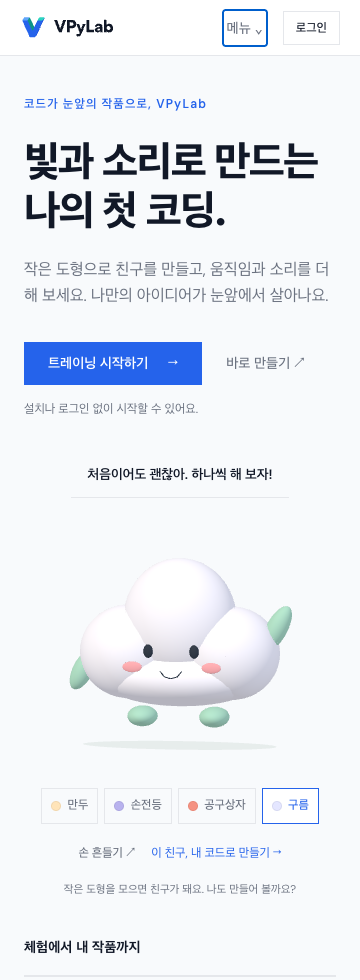
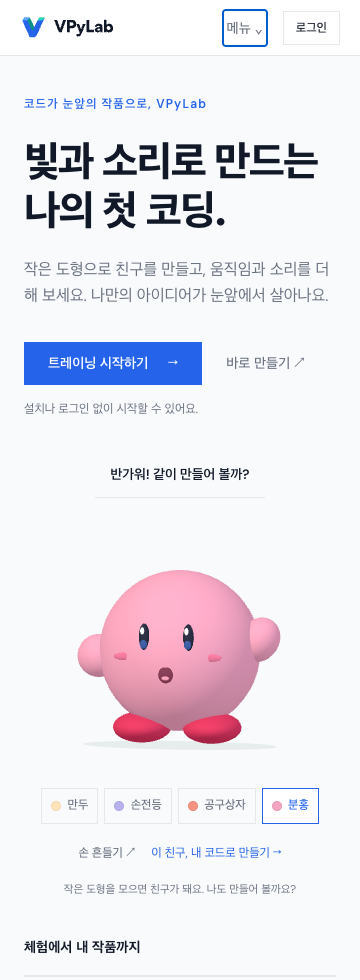
Replace cloud greeting with a Kirby-like pink coding friend

Changed region(s): [[0.1833, 0.5816, 0.825, 0.7653], [0.2444, 0.4592, 0.7639, 0.4898], [0.7639, 0.7959, 0.8556, 0.8265]]

diff --git a/client/src/data/welcome-friends.js b/client/src/data/welcome-friends.js
@@ -4,13 +4,28 @@ export const welcomeFriends=[
   {id:'dumpling',label:text('만두 친구','Dumpling'),color:'#ffe4b9',line:text('작은 코드부터, 같이 만들어 볼까?','Let’s make something with a little code!')},
   {id:'flashlight',label:text('손전등 친구','Flashlight'),color:'#b8b2ee',line:text('궁금한 곳을 코드로 비춰 보자!','Let’s shine a light on a new idea!')},
   {id:'toolbox',label:text('공구상자 친구','Toolbox'),color:'#f59282',line:text('만들고, 움직이고, 함께 고쳐 보자!','Let’s build, move, and improve it together!')},
-  {id:'cloud',label:text('구름 친구','Cloud'),color:'#e4e6ff',line:text('처음이어도 괜찮아. 하나씩 해 보자!','New to coding? Let’s try one thing at a time!')},
+  {id:'kirby',label:text('분홍 친구','Pink friend'),color:'#f5a4c2',line:text('반가워! 같이 만들어 볼까?','Hello! Let’s make something together!')},
 ];
 const ink='#293342',cheek='#f3a6ae',mint='#a7d7c4';
 export function welcomeParts(id='dumpling'){
   const parts=[];
   const egg=(name,pos,size,color,angle=0)=>parts.push({name,type:'ellipsoid',pos,size,color,angle});
   const solid=(name,type,props,color)=>parts.push({name,type,...props,color});
+  if(id==='kirby'){
+    const pink='#f5a4c2';
+    solid('body','sphere',{pos:[0,0,0],radius:.86},pink);
+    egg('left_foot',[-.38,-.81,.16],[.62,.33,.8],'#df3460');egg('right_foot',[.38,-.81,.16],[.62,.33,.8],'#df3460');
+    egg('left_hand',[-.88,-.07,0],[.46,.46,.46],pink);egg('right_hand',[.86,.13,0],[.43,.5,.5],pink,-.6);
+    for(const side of [-1,1]){
+      egg('eye_'+side,[side*.24,.22,.804],[.115,.29,.08],'#242840');
+      egg('eye_blue_'+side,[side*.24,.145,.851],[.078,.095,.02],'#365aa5');
+      egg('eye_shine_'+side,[side*.24-.012,.29,.854],[.046,.08,.02],'#ffffff');
+      egg('cheek_'+side,[side*.48,0,.718],[.21,.08,.035],'#eb759e');
+    }
+    egg('mouth',[0,-.18,.844],[.16,.18,.04],'#813652');
+    egg('tongue',[0,-.215,.866],[.085,.045,.02],'#f4a1bc');
+    return parts;
+  }
   let faceY=0,faceZ=.54,feetY=-.83;
   if(id==='flashlight'){
     solid('body','cylinder',{pos:[0,-.73,0],axis:[0,1.4,0],radius:.46},'#b8b2ee');
@@ -26,16 +41,12 @@ export function welcomeParts(id='dumpling'){
     solid('lid','box',{pos:[0,.47,0],size:[1.8,.26,.98]},'#f8a18e');
     solid('clasp','box',{pos:[0,.35,.53],size:[.32,.28,.12]},'#f2d28a');
     faceY=-.07;faceZ=.44;feetY=-.72;
-  }else if(id==='cloud'){
-    egg('top',[0,.33,0],[1.22,1.32,1.03],'#f3f2ff');
-    egg('left_puff',[-.56,-.02,0],[1.04,1.0,.98],'#f3f2ff');egg('right_puff',[.56,-.02,0],[1.04,1.0,.98],'#f3f2ff');
-    egg('base',[0,-.28,0],[1.8,.63,1.02],'#f3f2ff');faceY=-.08;faceZ=.525;feetY=-.7;
   }else{
     egg('body',[0,-.12,0],[1.85,1.36,1.1],'#ffe4b9');
     for(let i=-2;i<=2;i++)egg('fold_'+(i+2),[i*.21,.43+(2-Math.abs(i))*.055,0],[.18,.43,.66],'#f8d6a4',-i*.16);
   }
   egg('left_foot',[-.39,feetY,.09],[.32,.22,.43],mint);egg('right_foot',[.39,feetY,.09],[.32,.22,.43],mint);
-  const armX=id==='flashlight'?.57:id==='cloud'?1.05:.96;
+  const armX=id==='flashlight'?.57:.96;
   egg('left_hand',[-armX,-.22,0],[.22,.48,.24],id==='flashlight'?'#b8b2ee':mint,-.48);
   egg('right_hand',[armX,.25,0],[.23,.55,.25],id==='flashlight'?'#b8b2ee':mint,-.5);
   for(const side of [-1,1]){
@@ -46,7 +57,7 @@ export function welcomeParts(id='dumpling'){
   return parts;
 }
 export const welcomeWaveAngle=frame=>{let angle=0;for(let i=0;i<=frame;i++)angle+=.06*Math.cos(i*Math.PI/12);return angle;};
-export const welcomeWavePivot=id=>[id==='flashlight'?.51:id==='cloud'?.94:.85,.02,0];
+export const welcomeWavePivot=id=>[id==='flashlight'?.51:id==='kirby'?.72:.85,.02,0];
 export const rgb=hex=>[1,3,5].map(i=>parseInt(hex.slice(i,i+2),16)/255);
 const n=value=>Number(value.toFixed(5));
 const vec=values=>'vector('+values.map(n).join(', ')+')';
@@ -60,5 +71,5 @@ export function welcomeCode(id='dumpling'){
   lines.push('', '# 손을 조금씩 돌려 인사합니다. 반복 횟수와 각도를 바꿔 보세요.', 'for frame in range(72):','    rate(30)','    angle = 0.06 * cos(frame * pi / 12)','    right_hand.rotate(angle=angle, axis=vector(0, 0, 1),', '                      origin='+vec(welcomeWavePivot(id))+')');
   return lines.join('\n')+'\n';
 }
-export const welcomeTutorial={id:'welcome-friend',kind:'lab',duration:text('3~5분 · 기본 도형으로 인사하기','3–5 min · Say hello with shapes'),title:text('첫 화면의 친구를 내 코드로','Build the welcome friend with code'),description:text('만두·손전등·공구상자·구름을 기본 도형으로 만들고 손을 흔들어 봅니다.','Build a dumpling, flashlight, toolbox, or cloud with simple shapes and make it wave.'),change:text('도형 한 줄의 color나 발의 size 중 하나를 바꾸고 다시 실행하세요.','Change one shape’s color or a foot’s size and run it again.'),reflect:text('right_hand.rotate의 angle을 바꾸면 인사가 어떻게 달라지나요?','How does changing the angle in right_hand.rotate change the wave?')};
+export const welcomeTutorial={id:'welcome-friend',kind:'lab',duration:text('3~5분 · 기본 도형으로 인사하기','3–5 min · Say hello with shapes'),title:text('첫 화면의 친구를 내 코드로','Build the welcome friend with code'),description:text('만두·손전등·공구상자·분홍 친구를 기본 도형으로 만들고 손을 흔들어 봅니다.','Build a dumpling, flashlight, toolbox, or pink friend with simple shapes and make it wave.'),change:text('도형 한 줄의 color나 발의 size 중 하나를 바꾸고 다시 실행하세요.','Change one shape’s color or a foot’s size and run it again.'),reflect:text('right_hand.rotate의 angle을 바꾸면 인사가 어떻게 달라지나요?','How does changing the angle in right_hand.rotate change the wave?')};
 export function getWelcomeTutorial(id,step){if(id!==welcomeTutorial.id)return undefined;const friend=welcomeFriends.find(f=>f.id===step)||welcomeFriends[0];return {...welcomeTutorial,code:welcomeCode(friend.id),activeStep:friend.id,variants:welcomeFriends.map(f=>({id:f.id,title:f.label})),stepNote:text('이름은 아직 정하지 않았어요. 먼저 내 색과 모양으로 바꿔 보세요.','No name yet. Start by changing the shapes and colors.'),usesSound:false};}

diff --git a/client/src/components/home/WelcomeFriends.jsx b/client/src/components/home/WelcomeFriends.jsx
@@ -7,7 +7,8 @@ import { createWelcomeModel } from './welcome-geometry';
 
 export default function WelcomeFriends({ko=true}){
  const [id,setId]=useState('dumpling'),[webgl,setWebgl]=useState(true),[wave,setWave]=useState(0),[motionAllowed,setMotionAllowed]=useState(()=>typeof matchMedia==='function'&&!matchMedia('(prefers-reduced-motion: reduce)').matches);
- const host=useRef(null),runtime=useRef(null),friend=welcomeFriends.find(f=>f.id===id);
+ const host=useRef(null),runtime=useRef(null),friend=welcomeFriends.find(f=>f.id===id)||welcomeFriends.at(-1);
+ const selectedId=friend.id;
  useEffect(()=>{
   let renderer;
   try{renderer=new THREE.WebGLRenderer({alpha:true,antialias:true,preserveDrawingBuffer:true});}catch{queueMicrotask(()=>setWebgl(false));return;}
@@ -25,16 +26,16 @@ export default function WelcomeFriends({ko=true}){
   const lost=e=>{e.preventDefault();cancelAnimationFrame(state.frame);setWebgl(false);};renderer.domElement.addEventListener('webglcontextlost',lost);
   return()=>{cancelAnimationFrame(state.frame);observer?.disconnect();window.removeEventListener('resize',resize);if(reduced.removeEventListener)reduced.removeEventListener('change',motionChanged);else reduced.removeListener?.(motionChanged);renderer.domElement.removeEventListener('webglcontextlost',lost);state.model?.dispose();shadow.geometry.dispose();shadow.material.dispose();renderer.dispose();renderer.forceContextLoss();renderer.domElement.remove();runtime.current=null;};
  },[]);
- useEffect(()=>{const r=runtime.current;if(!r)return;cancelAnimationFrame(r.frame);if(r.model){r.scene.remove(r.model.group);r.model.dispose();}r.model=createWelcomeModel(id);r.scene.add(r.model.group);r.play();},[id]);
+ useEffect(()=>{const r=runtime.current;if(!r)return;cancelAnimationFrame(r.frame);if(r.model){r.scene.remove(r.model.group);r.model.dispose();}r.model=createWelcomeModel(selectedId);r.scene.add(r.model.group);r.play();},[selectedId]);
  useEffect(()=>{if(wave)runtime.current?.play();},[wave]);
  return <section className="welcome-friends" aria-label={ko?'코드로 만든 환영 친구':'A welcome friend made with code'}>
   <p className="welcome-hello" aria-live="polite">{friend.line[ko?'ko':'en']}</p>
-  <div className="welcome-stage" data-welcome-friend={id} data-welcome-renderer={webgl?'webgl':'svg'} role="img" aria-label={friend.label[ko?'ko':'en']}>
+  <div className="welcome-stage" data-welcome-friend={selectedId} data-welcome-renderer={webgl?'webgl':'svg'} role="img" aria-label={friend.label[ko?'ko':'en']}>
    <div ref={host} className="welcome-canvas" style={{visibility:webgl?'visible':'hidden'}}/>
-   {!webgl&&<StillFriend id={id}/>}
+   {!webgl&&<StillFriend id={selectedId}/>}
   </div>
-  <div className="welcome-choices" role="group" aria-label={ko?'맞이할 친구 고르기':'Choose a welcome friend'}>{welcomeFriends.map(f=><button key={f.id} onClick={()=>setId(f.id)} aria-pressed={f.id===id}><span style={{background:f.color}} aria-hidden="true"/>{f.label[ko?'ko':'en'].replace(' 친구','')}</button>)}</div>
-  <div className="welcome-actions"><button disabled={!webgl||!motionAllowed} onClick={()=>setWave(n=>n+1)}>{!webgl||!motionAllowed?(ko?'정적인 인사':'A still hello'):(ko?'손 흔들기':'Wave hello')} <span aria-hidden="true">↗</span></button><Link to={'/tutorials/welcome-friend?step='+id}>{ko?'이 친구, 내 코드로 만들기':'Build this friend with code'} →</Link></div>
+  <div className="welcome-choices" role="group" aria-label={ko?'맞이할 친구 고르기':'Choose a welcome friend'}>{welcomeFriends.map(f=><button key={f.id} onClick={()=>setId(f.id)} aria-pressed={f.id===selectedId}><span style={{background:f.color}} aria-hidden="true"/>{f.label[ko?'ko':'en'].replace(' 친구','')}</button>)}</div>
+  <div className="welcome-actions"><button disabled={!webgl||!motionAllowed} onClick={()=>setWave(n=>n+1)}>{!webgl||!motionAllowed?(ko?'정적인 인사':'A still hello'):(ko?'손 흔들기':'Wave hello')} <span aria-hidden="true">↗</span></button><Link to={'/tutorials/welcome-friend?step='+selectedId}>{ko?'이 친구, 내 코드로 만들기':'Build this friend with code'} →</Link></div>
   <p className="welcome-note">{ko?'작은 도형을 모으면 친구가 돼요. 나도 만들어 볼까요?':'Small shapes make a friend. Try making one yourself.'}</p>
  </section>;
 }

diff --git a/client/src/pages/Guide.jsx b/client/src/pages/Guide.jsx
@@ -43,7 +43,7 @@ export default function Guide() {
             <li><Link to="/docs">문서</Link>: VPython 기능과 VPyLab 확장, 도형 가이드를 찾아봅니다.</li>
             <li>사용 안내: 지금 읽고 있는 서비스와 협력 프로젝트의 안내입니다.</li>
           </ul>
-          <p>첫 화면에서는 만두·손전등·공구상자·구름 친구를 골라 볼 수 있습니다. <Link to="/tutorials/welcome-friend">이 친구, 내 코드로 만들기</Link>에서 같은 도형을 직접 실행하고 색과 크기를 바꿔 보세요. 아직 이름은 정하지 않았습니다.</p>
+          <p>첫 화면에서는 만두·손전등·공구상자·분홍 친구 친구를 골라 볼 수 있습니다. <Link to="/tutorials/welcome-friend">이 친구, 내 코드로 만들기</Link>에서 같은 도형을 직접 실행하고 색과 크기를 바꿔 보세요. 아직 이름은 정하지 않았습니다.</p>
           <p>교사가 제공한 GlowScript 원본 33개는 갤러리에서 볼 수 있습니다. 학생 작품 7개와 교사·참고 자료 26개를 구분하고, 참고 자료 목록은 접어 둡니다. 각 상세 화면에서 원본과 VPyLab 실습을 열 수 있습니다. 원본 실행과 VPyLab 실행은 환경에 따라 차이가 있을 수 있습니다.</p>
         </GuideSection>
 

diff --git a/client/src/components/home/WelcomeStill.jsx b/client/src/components/home/WelcomeStill.jsx
@@ -6,6 +6,7 @@ export default function StillFriend({id}){
   {welcomeParts(id).map(p=>{
    const common={fill:p.color};
    if(p.type==='curve')return <polyline key={p.name} points={p.pos.map(v=>[x(v[0]),y(v[1])].join(',')).join(' ')} fill="none" stroke={p.color} strokeWidth="3" strokeLinecap="round" strokeLinejoin="round"/>;
+   if(p.type==='sphere')return <circle key={p.name} {...common} cx={x(p.pos[0])} cy={y(p.pos[1])} r={p.radius*scale}/>;
    if(p.type==='ellipsoid')return <ellipse key={p.name} {...common} cx={x(p.pos[0])} cy={y(p.pos[1])} rx={p.size[0]*scale/2} ry={p.size[1]*scale/2} transform={`rotate(${-p.angle*180/Math.PI},${x(p.pos[0])},${y(p.pos[1])})`}/>;
    if(p.type==='box')return <rect key={p.name} {...common} x={x(p.pos[0]-p.size[0]/2)} y={y(p.pos[1]+p.size[1]/2)} width={p.size[0]*scale} height={p.size[1]*scale}/>;
    if(p.type==='ring')return <ellipse key={p.name} cx={x(p.pos[0])} cy={y(p.pos[1])} rx={p.radius*scale} ry={p.radius*scale*(p.axis[1]? .18:1)} fill="none" stroke={p.color} strokeWidth={p.thickness*scale*2}/>;
@@ -14,4 +15,3 @@ export default function StillFriend({id}){
   })}
  </svg>;
 }
-

diff --git a/client/src/components/home/welcome-geometry.js b/client/src/components/home/welcome-geometry.js
@@ -6,7 +6,8 @@ export function createWelcomeModel(id){
  const group=new THREE.Group(),pivot=new THREE.Group();pivot.position.fromArray(welcomeWavePivot(id));group.add(pivot);
  for(const p of welcomeParts(id)){
   let geometry;
-  if(p.type==='ellipsoid'){geometry=new THREE.SphereGeometry(1,32,24);geometry.scale(...p.size.map(x=>x/2));}
+  if(p.type==='sphere')geometry=new THREE.SphereGeometry(p.radius,32,24);
+  else if(p.type==='ellipsoid'){geometry=new THREE.SphereGeometry(1,32,24);geometry.scale(...p.size.map(x=>x/2));}
   else if(p.type==='curve'){geometry=new THREE.BufferGeometry().setFromPoints(p.pos.map(v=>new THREE.Vector3(...v)));}
   else if(p.type==='box')geometry=new THREE.BoxGeometry(...p.size);
   else if(p.type==='ring')geometry=new THREE.TorusGeometry(p.radius,p.thickness,12,48);

diff --git a/docs/WELCOME_MENU_AND_LIVE_VERIFICATION_2026-11-07.md b/docs/WELCOME_MENU_AND_LIVE_VERIFICATION_2026-11-07.md
@@ -3,7 +3,7 @@
 ## 바뀐 화면
 
 - 메뉴를 **트레이닝 → 만들기 → 튜토리얼 → 대장간 → 갤러리 → 문서 → 사용 안내**로 정리했습니다. 문서·사용 안내는 직접 표시하고 간격으로 구분합니다. 1024px 미만은 같은 순서의 메뉴로 접습니다. 소개·언어·테마·설정은 더보기에 남깁니다.
-- 홈에서 **만두·손전등·공구상자·구름** 중 맞이할 친구를 고릅니다. 진로 앱의 단순한 사물 친구 모티프를 참고했고 해당 이미지나 자료를 옮기지는 않았습니다. 정식 이름은 정하지 않았습니다.
+- 홈에서 **만두·손전등·공구상자·분홍 친구** 중 맞이할 친구를 고릅니다. 진로 앱의 단순한 사물 친구 모티프를 참고했고 해당 이미지나 자료를 옮기지는 않았습니다. 정식 이름은 정하지 않았습니다.
 - 단일 Three.js 렌더러에서 모델을 교체합니다. 구형·상자·원기둥·원뿔·고리·선 같은 기본 도형으로 구현했고, 동일한 도형 명세에서 학생용 Python을 생성합니다.
 - 인사는 30fps, 72프레임으로 한 번 재생한 뒤 멈춥니다. 홈과 Python이 같은 회전 누적 수식을 사용합니다. 모션 감소·WebGL 불가·지연 청크 실패 시 정적 그림과 실습 링크를 제공합니다.
 - **이 친구, 내 코드로 만들기**는 `/tutorials/welcome-friend?step=...`로 선택한 친구의 코드를 엽니다. 색·크기·회전 각도를 직접 바꿔 보는 활동입니다. 기본 학습은 AI를 사용하지 않습니다.
@@ -55,8 +55,14 @@ HTML 검사는 외부 CDN 자리를 동일 버전의 로컬 Three.js/Pyodide 파
 - [만두 친구](review-figures/2026-11-07/welcome-home-dumpling.png)
 - [손전등 친구](review-figures/2026-11-07/welcome-home-flashlight.png)
 - [공구상자 친구](review-figures/2026-11-07/welcome-home-toolbox.png)
-- [구름 친구](review-figures/2026-11-07/welcome-home-cloud.png)
+- [분홍 친구](review-figures/2026-11-07/welcome-home-kirby.png)
 - [모바일](review-figures/2026-11-07/welcome-home-mobile.png)
 - [실계정 비공개 포크](review-figures/2026-11-07/forge-live-fork-private.png)
 - [실계정 공개 수정본](review-figures/2026-11-07/forge-live-public-catalog.png)
 - [실계정 공개 내리기](review-figures/2026-11-07/forge-live-unpublished.png)
+
+## 사용자 후속 반영
+
+구름 친구를 제외하고 커비를 최대한 닮도록 둥근 분홍 몸통·길쭉한 눈·파랑/흰 눈 하이라이트·짧은 팔·빨간 발의 연습형으로 교체했습니다. 정식 이름은 보류하고 화면에서는 분홍 친구로 표시합니다. 이전 구름 검토·캡처는 당시 과정 기록이며 현재 선택지에는 나오지 않습니다.
+
+분홍 친구 교체 후 관련 Python 회귀 6개와 최종 네 친구의 UI 15개, 실습/HTML 실행 8개를 다시 확인했습니다. 전체 회귀·운영 빌드 결과와 구분해 이 후속 결과를 남겼습니다.

diff --git a/DESIGN.md b/DESIGN.md
@@ -76,4 +76,4 @@
 
 2026-11-07 사용자 후속 지시: 대장간은 `/forge`의 독립 작업대로 제공한다. 재사용 단일 오브젝트만 제작하며 천체 운동 시스템은 제외한다. 프로젝트 전달은 코드 복사로 충분하다. 공개 목록은 코드를 기본으로 숨기고 포크 기록과 원본·참고 프로젝트 출처를 남긴다. 종은 모양 → 클릭 소리 → 음파로 진행한다.
 
-2026-11-07 환영 캐릭터: 진로 앱의 단순한 사물 친구 모티프를 참고하되, 만두·손전등·공구상자·구름을 VPython 기본 도형으로 직접 구현합니다. 이름은 보류합니다. 첫 화면의 모양과 실습 코드는 같은 명세를 사용하고, 짧은 손 흔들기·모션 감소·WebGL 불가 시 정적 그림을 지원합니다.
+2026-11-07 환영 캐릭터: 진로 앱의 단순한 사물 친구 모티프를 참고하되, 만두·손전등·공구상자·분홍 친구를 VPython 기본 도형으로 직접 구현합니다. 이름은 보류합니다. 첫 화면의 모양과 실습 코드는 같은 명세를 사용하고, 짧은 손 흔들기·모션 감소·WebGL 불가 시 정적 그림을 지원합니다.

diff --git a/docs/USER_GUIDE_KO.md b/docs/USER_GUIDE_KO.md
@@ -14,7 +14,7 @@
 
 ## 첫 화면의 코드 친구
 
-만두·손전등·공구상자·구름을 골라 환영 인사를 볼 수 있습니다. 별도 이름은 아직 없습니다. 손 흔들기는 짧게 한 번 재생하고 멈추며, 모션 감소 설정을 따릅니다. 3D를 사용할 수 없으면 정적인 도형 그림을 보여 줍니다.
+만두·손전등·공구상자·분홍 친구를 골라 환영 인사를 볼 수 있습니다. 별도 이름은 아직 없습니다. 손 흔들기는 짧게 한 번 재생하고 멈추며, 모션 감소 설정을 따릅니다. 3D를 사용할 수 없으면 정적인 도형 그림을 보여 줍니다.
 
 **이 친구, 내 코드로 만들기**를 누르면 선택한 모양의 VPython 체험을 엽니다. 화면과 Python은 같은 도형 명세를 사용합니다. 색·크기를 바꾸고 손의 회전 각도를 바꾸며 결과를 예상하세요. 구·타원체·상자·원기둥·원뿔·고리·선으로 구성하며 외부 이미지나 AI 호출이 필요하지 않습니다.
 
